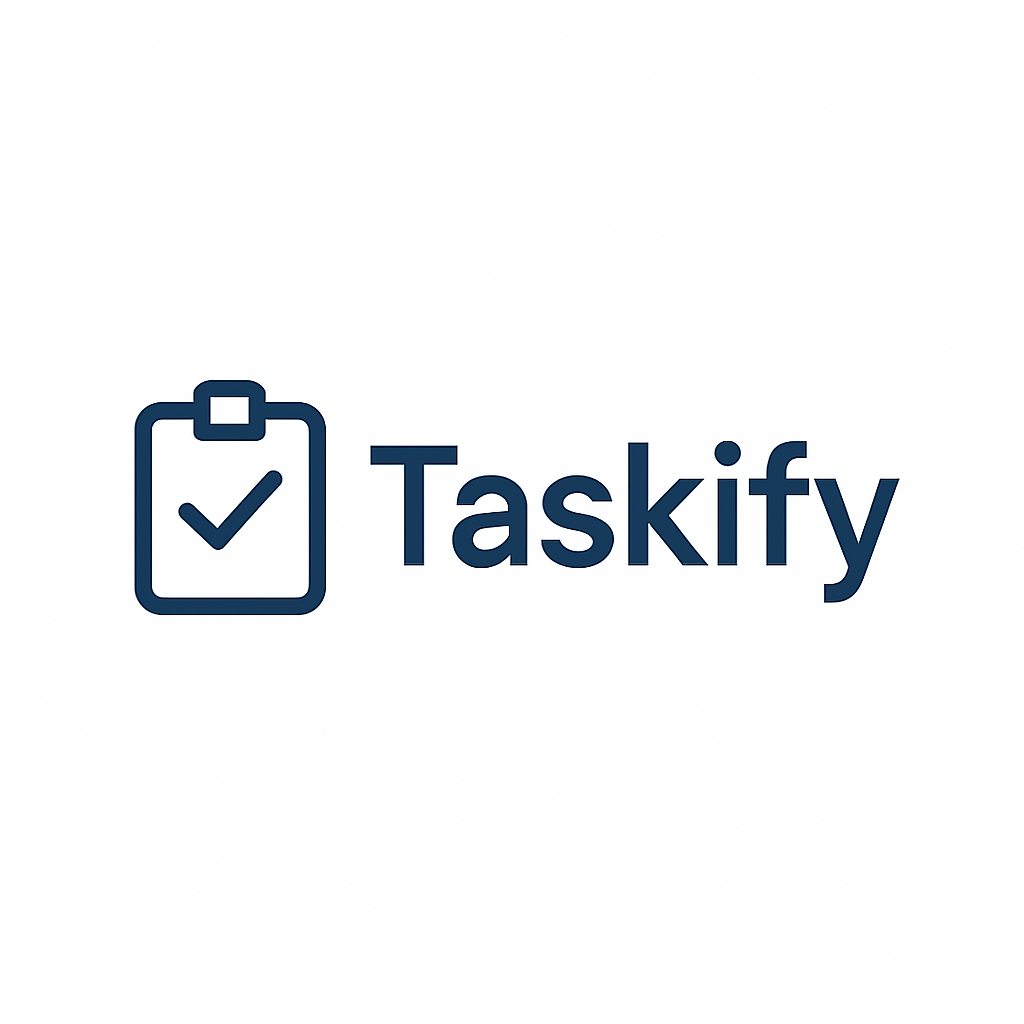
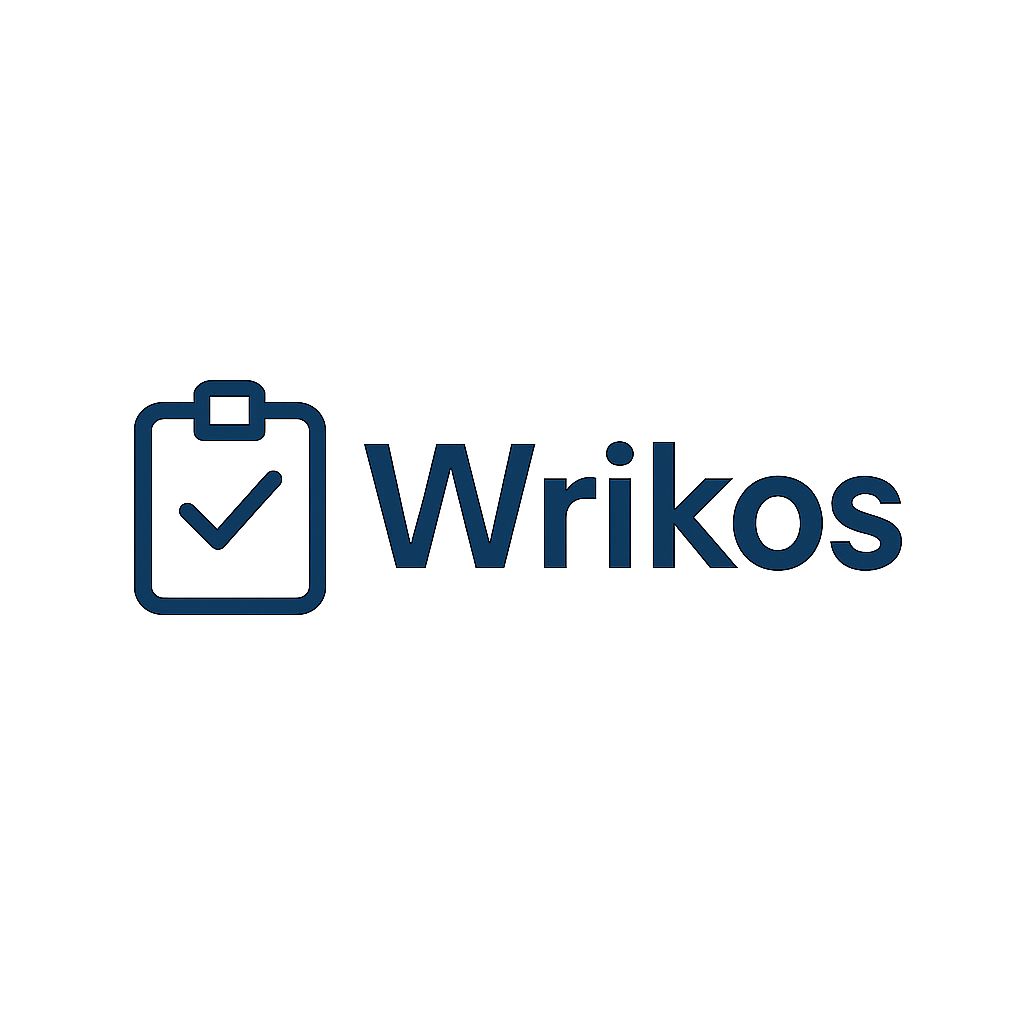
update

Changed region(s): [[0.3438, 0.4062, 0.875, 0.5938], [0.125, 0.4062, 0.1562, 0.5938], [0.1875, 0.375, 0.25, 0.4375]]

diff --git a/src/pages/Register.js b/src/pages/Register.js
@@ -1,20 +1,19 @@
+import { useNavigate, Link } from 'react-router-dom';
+import config from '../config/config';
 import { useState } from 'react';
 import axios from 'axios';
-import { useNavigate, Link } from 'react-router-dom';
 import '../styles/Theme.css';
 import '../styles/App.css';
 
-const Login = ({ setAuth }) => {
+const Register = ({ setAuth }) => {
     const [formData, setFormData] = useState({
-        username: '',
-        password: ''
+        username: '', password: ''
     });
     const [error, setError] = useState('');
     const [loading, setLoading] = useState(false);
     const navigate = useNavigate();
 
     const { username, password } = formData;
-    const BACKEND_URL = process.env.REACT_APP_BACKEND_URL;
 
     const onChange = e => setFormData({ ...formData, [e.target.name]: e.target.value });
 
@@ -24,18 +23,21 @@ const Login = ({ setAuth }) => {
         setError('');
 
         try {
-            const res = await axios.post(`${BACKEND_URL}/api/login`, { username, password });
-            setAuth(res.data.token);
-            navigate('/');
+            const res = await axios.post(`${config.REACT_APP_BACKEND_URL}/api/register`, { username, password });
+            if (res.status === 201) {
+                const loginRes = await axios.post(`${config.REACT_APP_BACKEND_URL}/api/login`, { username, password });
+                setAuth(loginRes.data.token);
+                navigate('/');
+            }
         } catch (err) {
-            setError(err.response?.data?.message || 'Invalid credentials');
+            setError(err.response?.data?.message || 'Registration failed');
             setLoading(false);
         }
     };
 
     return (
         <div className="auth-form">
-            <h1>Login</h1>
+            <h1>Register</h1>
             {error && <div className="error-message">{error}</div>}
             <form onSubmit={onSubmit}>
                 <div className="form-group">
@@ -66,14 +68,14 @@ const Login = ({ setAuth }) => {
                     disabled={loading}
                     data-auth="true"
                 >
-                    {loading ? 'Logging in...' : 'Login'}
+                    {loading ? 'Registering...' : 'Register'}
                 </button>
             </form>
             <p style={{ textAlign: 'center', marginTop: '15px' }}>
-                Don't have an account? <Link to="/register">Register</Link>
+                Already have an account? <Link to="/login">Login</Link>
             </p>
         </div>
     );
 };
 
-export default Login;
+export default Register;

diff --git a/src/pages/Login.js b/src/pages/Login.js
@@ -1,10 +1,11 @@
 import { useState } from 'react';
 import axios from 'axios';
 import { useNavigate, Link } from 'react-router-dom';
+import config from '../config/config';
 import '../styles/Theme.css';
 import '../styles/App.css';
 
-const Register = ({ setAuth }) => {
+const Login = ({ setAuth }) => {
     const [formData, setFormData] = useState({
         username: '',
         password: ''
@@ -14,8 +15,7 @@ const Register = ({ setAuth }) => {
     const navigate = useNavigate();
 
     const { username, password } = formData;
-    const BACKEND_URL = process.env.REACT_APP_BACKEND_URL;
-
+    
     const onChange = e => setFormData({ ...formData, [e.target.name]: e.target.value });
 
     const onSubmit = async e => {
@@ -24,21 +24,18 @@ const Register = ({ setAuth }) => {
         setError('');
 
         try {
-            const res = await axios.post(`${BACKEND_URL}/api/register`, { username, password });
-            if (res.status === 201) {
-                const loginRes = await axios.post(`${BACKEND_URL}/api/login`, { username, password });
-                setAuth(loginRes.data.token);
-                navigate('/');
-            }
+            const res = await axios.post(`${config.REACT_APP_BACKEND_URL}/api/login`, { username, password });
+            setAuth(res.data.token);
+            navigate('/');
         } catch (err) {
-            setError(err.response?.data?.message || 'Registration failed');
+            setError(err.response?.data?.message || 'Invalid credentials');
             setLoading(false);
         }
     };
 
     return (
         <div className="auth-form">
-            <h1>Register</h1>
+            <h1>Login</h1>
             {error && <div className="error-message">{error}</div>}
             <form onSubmit={onSubmit}>
                 <div className="form-group">
@@ -69,14 +66,14 @@ const Register = ({ setAuth }) => {
                     disabled={loading}
                     data-auth="true"
                 >
-                    {loading ? 'Registering...' : 'Register'}
+                    {loading ? 'Logging in...' : 'Login'}
                 </button>
             </form>
             <p style={{ textAlign: 'center', marginTop: '15px' }}>
-                Already have an account? <Link to="/login">Login</Link>
+                Don't have an account? <Link to="/register">Register</Link>
             </p>
         </div>
     );
 };
 
-export default Register;
+export default Login;

diff --git a/public/index.html b/public/index.html
@@ -6,11 +6,11 @@
   <meta http-equiv="X-UA-Compatible" content="IE=edge" />
   <meta name="viewport" content="width=device-width, initial-scale=1" />
 
-  <title>Taskify – Personal Todo Manager</title>
+  <title>Wrikos - Personal Tasks Manager</title>
   <meta name="description"
-    content="Taskify is a lightweight, secure and responsive todo app with user authentication, dark/light themes, and intuitive task management." />
+    content="Wrikos is a lightweight, secure and responsive todo app with user authentication, dark/light themes, and intuitive task management." />
   <meta name="keywords"
-    content="Taskify, My-Taskify-Client, todo app, MERN stack todo, Muhammad Sohaib Ali, sohaibalidev, Sohaib Ali," />
+    content="Wrikos, My-Wrikos-Client, todo app, MERN stack todo, Muhammad Sohaib Ali, sohaibalidev, Sohaib Ali," />
 
   <!-- SEO Meta -->
   <meta name="robots" content="index, follow" />
@@ -18,17 +18,17 @@
 
   <!-- Open Graph / Facebook -->
   <meta property="og:type" content="website" />
-  <meta property="og:title" content="Taskify – Personal Todo Manager" />
+  <meta property="og:title" content="Wrikos - Personal Tasks Manager" />
   <meta property="og:description"
-    content="Stay organized with Taskify. Add, edit, and complete your todos in a clean, dark/light-themed UI." />
+    content="Stay organized with Wrikos. Add, edit, and complete your todos in a clean, dark/light-themed UI." />
   <meta property="og:image" content="%PUBLIC_URL%/og-image.png" />
-  <meta property="og:url" content="https://my-taskify-client.netlify.app/" />
+  <meta property="og:url" content="https://my-Wrikos-client.netlify.app/" />
 
   <!-- Twitter -->
   <meta name="twitter:card" content="summary_large_image" />
-  <meta name="twitter:title" content="Taskify – Personal Todo Manager" />
+  <meta name="twitter:title" content="Wrikos - Personal Tasks Manager" />
   <meta name="twitter:description"
-    content="Stay organized with Taskify. Add, edit, and complete your todos in a clean, dark/light-themed UI." />
+    content="Stay organized with Wrikos. Add, edit, and complete your todos in a clean, dark/light-themed UI." />
   <meta name="twitter:image" content="%PUBLIC_URL%/og-image.png" />
 
   <!-- Favicon + Manifest -->

diff --git a/src/App.js b/src/App.js
@@ -1,9 +1,10 @@
 import { BrowserRouter as Router, Routes, Route, Navigate, Link } from 'react-router-dom';
 import { useState, useEffect } from 'react';
 import { FiSun, FiMoon, FiLogOut } from 'react-icons/fi';
-import Login from './components/Login';
-import Register from './components/Register';
-import Todos from './components/Todos';
+import Login from './pages/Login';
+import Register from './pages/Register';
+import Todos from './pages/Todos';
+import NotFound from './pages/NotFound';
 import './styles/Theme.css';
 import './styles/App.css';
 
@@ -49,7 +50,7 @@ function App() {
         <header className="app-header">
           <div className="header-container">
             <Link to="/" className="logo">
-              <h1>Taskify</h1>
+              <h1>Wrikos</h1>
             </Link>
 
             <div className="header-actions">
@@ -76,6 +77,7 @@ function App() {
             <Route path="/login" element={!isAuthenticated ? <Login setAuth={setAuth} /> : <Navigate to="/" />} />
             <Route path="/register" element={!isAuthenticated ? <Register setAuth={setAuth} /> : <Navigate to="/" />} />
             <Route path="/" element={isAuthenticated ? <Todos logout={logout} /> : <Navigate to="/login" />} />
+            <Route path="*" element={<NotFound />} />
           </Routes>
         </main>
       </div>

diff --git a/src/styles/NotFound.css b/src/styles/NotFound.css
@@ -1,0 +1,38 @@
+.notfound-container {
+    display: flex;
+    height: 100vh;
+    align-items: center;
+    justify-content: center;
+    background-color: #f9fafb;
+    padding: 2rem;
+    text-align: center;
+}
+
+.notfound-content {
+    max-width: 400px;
+}
+
+.notfound-content h1 {
+    font-size: 5rem;
+    color: #1e293b;
+    margin-bottom: 1rem;
+}
+
+.notfound-content p {
+    font-size: 1.2rem;
+    color: #64748b;
+    margin-bottom: 2rem;
+}
+
+.home-link {
+    padding: 0.75rem 1.5rem;
+    background-color: #2563eb;
+    color: white;
+    border-radius: 8px;
+    text-decoration: none;
+    transition: background-color 0.3s ease;
+}
+
+.home-link:hover {
+    background-color: #1d4ed8;
+}

diff --git a/src/pages/Todos.js b/src/pages/Todos.js
@@ -1,6 +1,7 @@
-import { useState, useEffect } from 'react';
-import axios from 'axios';
 import { useNavigate } from 'react-router-dom';
+import { useState, useEffect } from 'react';
+import config from '../config/config';
+import axios from 'axios';
 import '../styles/Theme.css';
 import '../styles/App.css';
 
@@ -14,7 +15,7 @@ const Todos = ({ logout }) => {
     const [user, setUser] = useState(null);
     const navigate = useNavigate();
 
-    const BACKEND_URL = process.env.REACT_APP_BACKEND_URL;
+    const BACKEND_URL = config.REACT_APP_BACKEND_URL;
 
     useEffect(() => {
         fetchTodos();

diff --git a/src/pages/NotFound.js b/src/pages/NotFound.js
@@ -1,0 +1,16 @@
+import { Link } from 'react-router-dom';
+import '../styles/NotFound.css';
+
+const NotFound = () => {
+    return (
+        <div className="notfound-container">
+            <div className="notfound-content">
+                <h1>404</h1>
+                <p>Oops! The page you're looking for doesn't exist.</p>
+                <Link to="/" className="home-link">Go Back Home</Link>
+            </div>
+        </div>
+    );
+};
+
+export default NotFound;

diff --git a/src/config/config.js b/src/config/config.js
@@ -1,0 +1,5 @@
+const config = {
+    REACT_APP_BACKEND_URL: process.env.REACT_APP_BACKEND_URL || 'http://192.168.100.4:5000'
+}
+
+export default config
